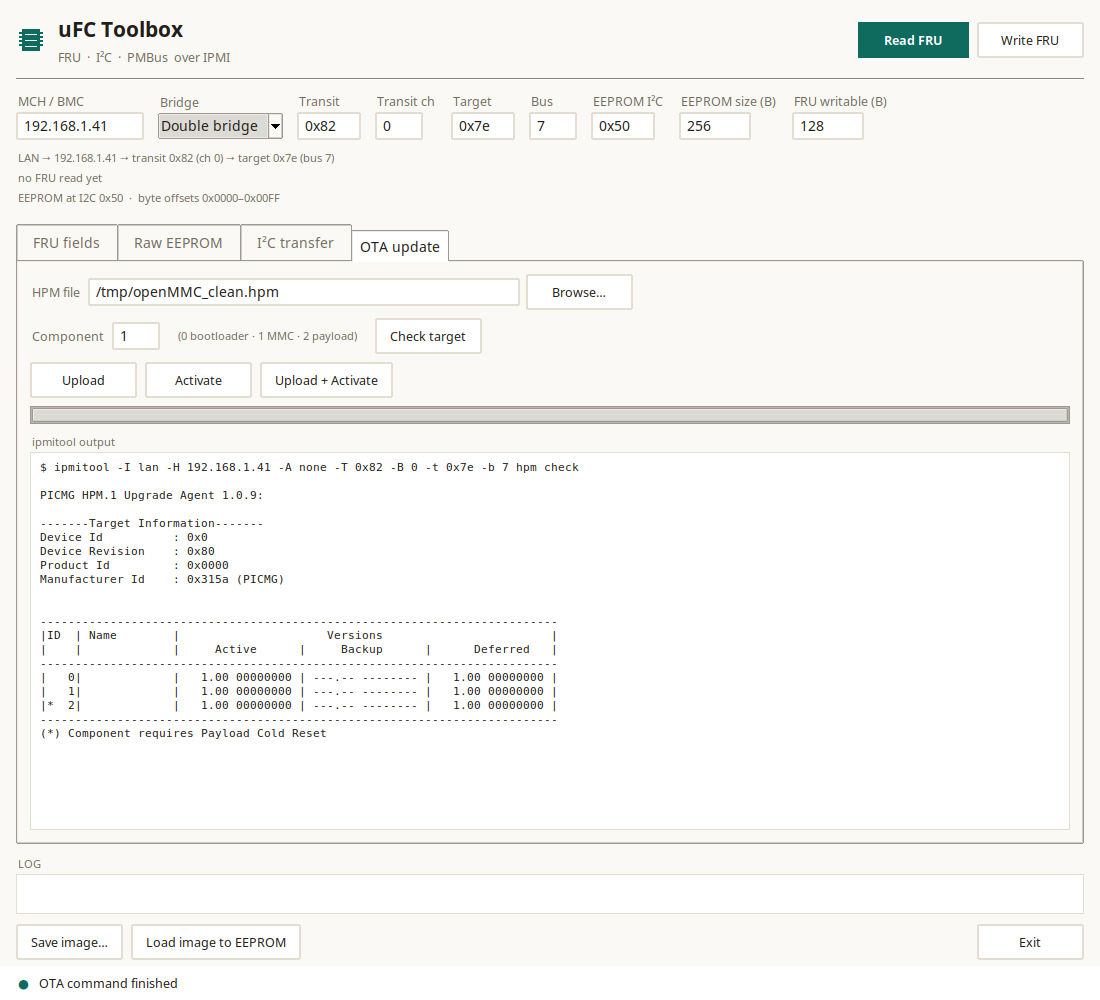
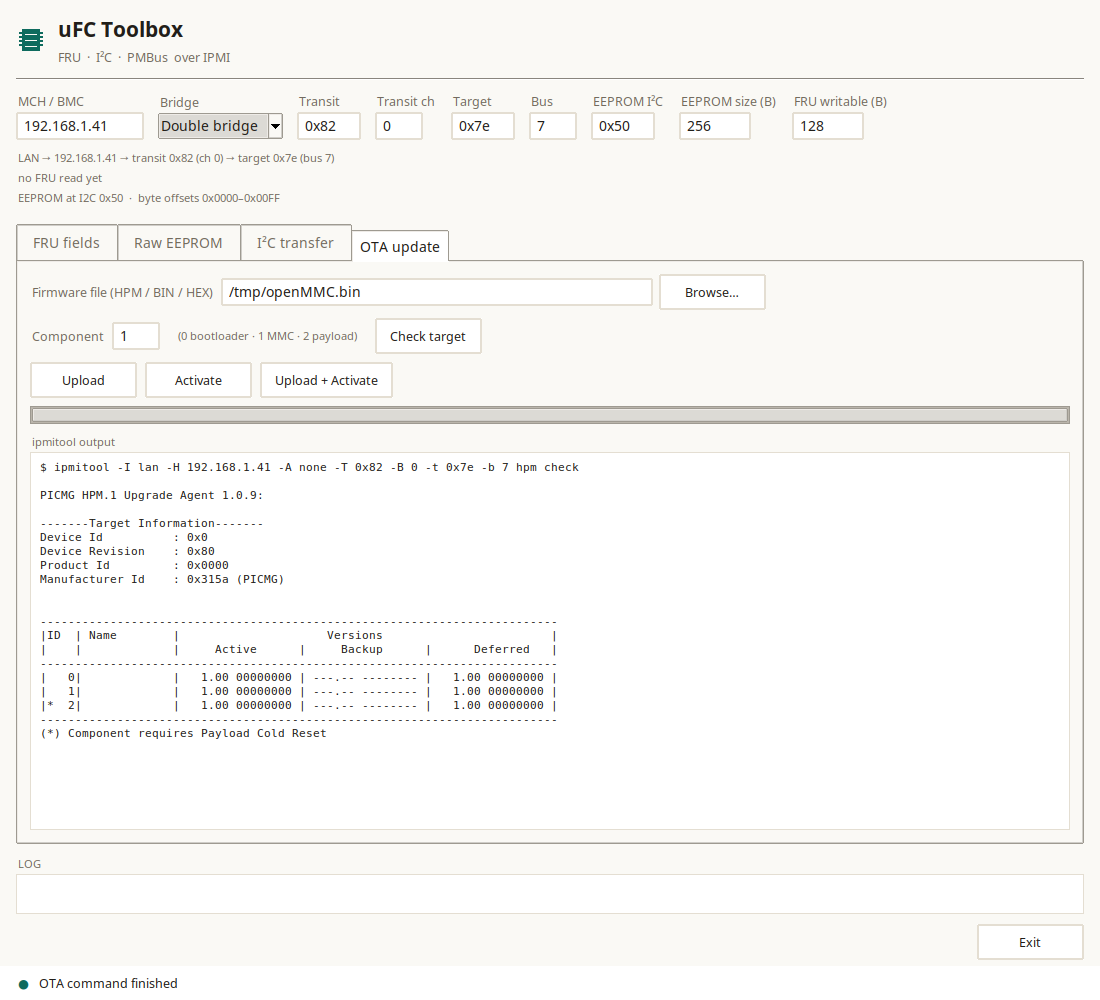
ota: accept .bin/.hex and convert them to HPM in the toolbox
The OTA tab takes .hpm, .bin or .hex:
- .hpm is uploaded as is;
- .bin is wrapped with 'bin2hpm -c <component> -n -m 0x315A -p 0x0 -d 0';
- .hex is parsed into a raw image first (Intel HEX records, base address
  stripped, gaps 0xFF) and then wrapped the same way.
The conversion is logged in the tab; bin2hpm must be in PATH. Verified:
a .bin and an objcopy .hex of the same app produce 28268-byte HPM files
(only bin2hpm's embedded timestamp differs) and the .bin upload ends
with 'Firmware upgrade procedure successful'. Binary rebuilt.

diff --git a/tools/fru_gui/fru_gui_tk.py b/tools/fru_gui/fru_gui_tk.py
@@ -13,6 +13,8 @@ import queue
 import re
 import subprocess
 import sys
+import shutil
+import tempfile
 import threading
 import time
 import tkinter as tk
@@ -312,7 +314,7 @@ class FruEditor(tk.Tk):
 
         row = ttk.Frame(parent)
         row.pack(fill="x", pady=(0, 8))
-        ttk.Label(row, text="HPM file", style="FieldLabel.TLabel").pack(side="left")
+        ttk.Label(row, text="Firmware file (HPM / BIN / HEX)", style="FieldLabel.TLabel").pack(side="left")
         self.ota_file = tk.StringVar(value="")
         ttk.Entry(row, textvariable=self.ota_file, width=52).pack(side="left", padx=(6, 6))
         ttk.Button(row, text="Browse…", command=self._ota_browse).pack(side="left")
@@ -346,8 +348,80 @@ class FruEditor(tk.Tk):
                                highlightbackground=LINE, padx=8, pady=6)
         self.ota_out.pack(fill="both", expand=True)
 
+    @staticmethod
+    def _parse_intel_hex(text):
+        """Return the raw image of an Intel HEX file (lowest address first)."""
+        mem = {}
+        base = 0
+        for line in text.splitlines():
+            line = line.strip()
+            if not line.startswith(":"):
+                continue
+            try:
+                rec = bytes.fromhex(line[1:])
+            except ValueError:
+                continue
+            if len(rec) < 5:
+                continue
+            count, addr, rtype = rec[0], (rec[1] << 8) | rec[2], rec[3]
+            data = rec[4:4 + count]
+            if rtype == 0x00:
+                for i, b in enumerate(data):
+                    mem[base + addr + i] = b
+            elif rtype == 0x01:
+                break
+            elif rtype == 0x02:
+                base = ((data[0] << 8) | data[1]) << 4
+            elif rtype == 0x04:
+                base = ((data[0] << 8) | data[1]) << 16
+        if not mem:
+            raise ValueError("no data records in the HEX file")
+        lo, hi = min(mem), max(mem)
+        out = bytearray(b"\xff") * (hi - lo + 1)
+        for a, b in mem.items():
+            out[a - lo] = b
+        return bytes(out)
+
+    def _ota_resolve_image(self):
+        """Return an .hpm path for the selected file (.hpm/.bin/.hex)."""
+        path = self.ota_file.get().strip()
+        if not path or not os.path.isfile(path):
+            raise ValueError("choose an .hpm, .bin or .hex file first")
+        ext = os.path.splitext(path)[1].lower()
+        if ext == ".hpm":
+            return path
+
+        tool = shutil.which("bin2hpm")
+        if not tool:
+            raise ValueError("bin2hpm not found in PATH (needed for .bin/.hex input)")
+
+        workdir = tempfile.mkdtemp(prefix="ufc-ota-")
+        if ext == ".hex":
+            with open(path, "r", errors="replace") as f:
+                raw = self._parse_intel_hex(f.read())
+            src = os.path.join(workdir, "image.bin")
+            with open(src, "wb") as f:
+                f.write(raw)
+            self._ota_log("HEX parsed: %d bytes -> %s\n" % (len(raw), src))
+        else:
+            src = path
+
+        out = os.path.join(workdir, "image.hpm")
+        comp = self.ota_comp.get().strip() or "1"
+        cmd = [tool, "-c", comp, "-n", "-m", "0x315A", "-p", "0x0", "-d", "0",
+               src, "-o", out]
+        self._ota_log("$ %s\n" % " ".join(cmd))
+        res = subprocess.run(cmd, capture_output=True, text=True)
+        if res.returncode != 0 or not os.path.isfile(out):
+            raise ValueError("bin2hpm failed:\n%s" % (res.stderr or res.stdout))
+        self._ota_log("HPM built: %s (%d bytes)\n" % (out, os.path.getsize(out)))
+        return out
+
     def _ota_browse(self):
-        path = filedialog.askopenfilename(filetypes=[("HPM image", "*.hpm"), ("All files", "*.*")])
+        path = filedialog.askopenfilename(
+            filetypes=[("Firmware (HPM/BIN/HEX)", "*.hpm *.bin *.hex"),
+                       ("HPM image", "*.hpm"), ("Raw binary", "*.bin"),
+                       ("Intel HEX", "*.hex"), ("All files", "*.*")])
         if path:
             self.ota_file.set(path)
 
@@ -450,11 +524,12 @@ class FruEditor(tk.Tk):
         self._ota_run(["check"])
 
     def _ota_upload(self):
-        path = self.ota_file.get().strip()
-        if not path or not os.path.isfile(path):
-            messagebox.showwarning(APP_TITLE, "Choose an .hpm file first.")
+        try:
+            image = self._ota_resolve_image()
+        except Exception as e:
+            messagebox.showerror(APP_TITLE, str(e))
             return
-        self._ota_run(["upgrade", path, "-C", self.ota_comp.get().strip()])
+        self._ota_run(["upgrade", image, "-C", self.ota_comp.get().strip()])
 
     def _ota_activate(self):
         if not messagebox.askyesno(APP_TITLE,
@@ -463,15 +538,16 @@ class FruEditor(tk.Tk):
         self._ota_run(["activate"], timeout=25)
 
     def _ota_upload_activate(self):
-        path = self.ota_file.get().strip()
-        if not path or not os.path.isfile(path):
-            messagebox.showwarning(APP_TITLE, "Choose an .hpm file first.")
+        try:
+            image = self._ota_resolve_image()
+        except Exception as e:
+            messagebox.showerror(APP_TITLE, str(e))
             return
         if not messagebox.askyesno(APP_TITLE,
                                     "Upload and activate %s?\nThe MMC will reset after the upload."
-                                    % os.path.basename(path)):
+                                    % os.path.basename(image)):
             return
-        self._ota_run(["upgrade", path, "-C", self.ota_comp.get().strip()],
+        self._ota_run(["upgrade", image, "-C", self.ota_comp.get().strip()],
                       next_args=["activate"])
 
     def _build_i2c_tab(self, parent):

diff --git a/tools/fru_gui/README.md b/tools/fru_gui/README.md
@@ -136,7 +136,10 @@ Uploads a PICMG **HPM.1** image to the MMC and activates it (the MMC's HPM
 agent stages the image; `activate` writes the `fw_info` record and resets,
 then `newboot` copies staging to the application).
 
-- **HPM file** — the `.hpm` built by `bin2hpm` (Browse…)
+- **Firmware file** — `.hpm`, `.bin` or `.hex` (Browse…). A `.hpm` is used as
+  is; a `.bin` goes through `bin2hpm -c <component> -n -m 0x315A -p 0x0 -d 0`;
+  a `.hex` (Intel HEX) is first converted to a raw image by the tab, then
+  through the same `bin2hpm` call. `bin2hpm` must be in `PATH` for `.bin`/`.hex`.
 - **Component** — `1` MMC (default), `0` bootloader, `2` payload
 - **Check target** — `ipmitool hpm check`
 - **Upload** — `ipmitool hpm upgrade <file> -C <component>` (~1 min for 28 KB)
